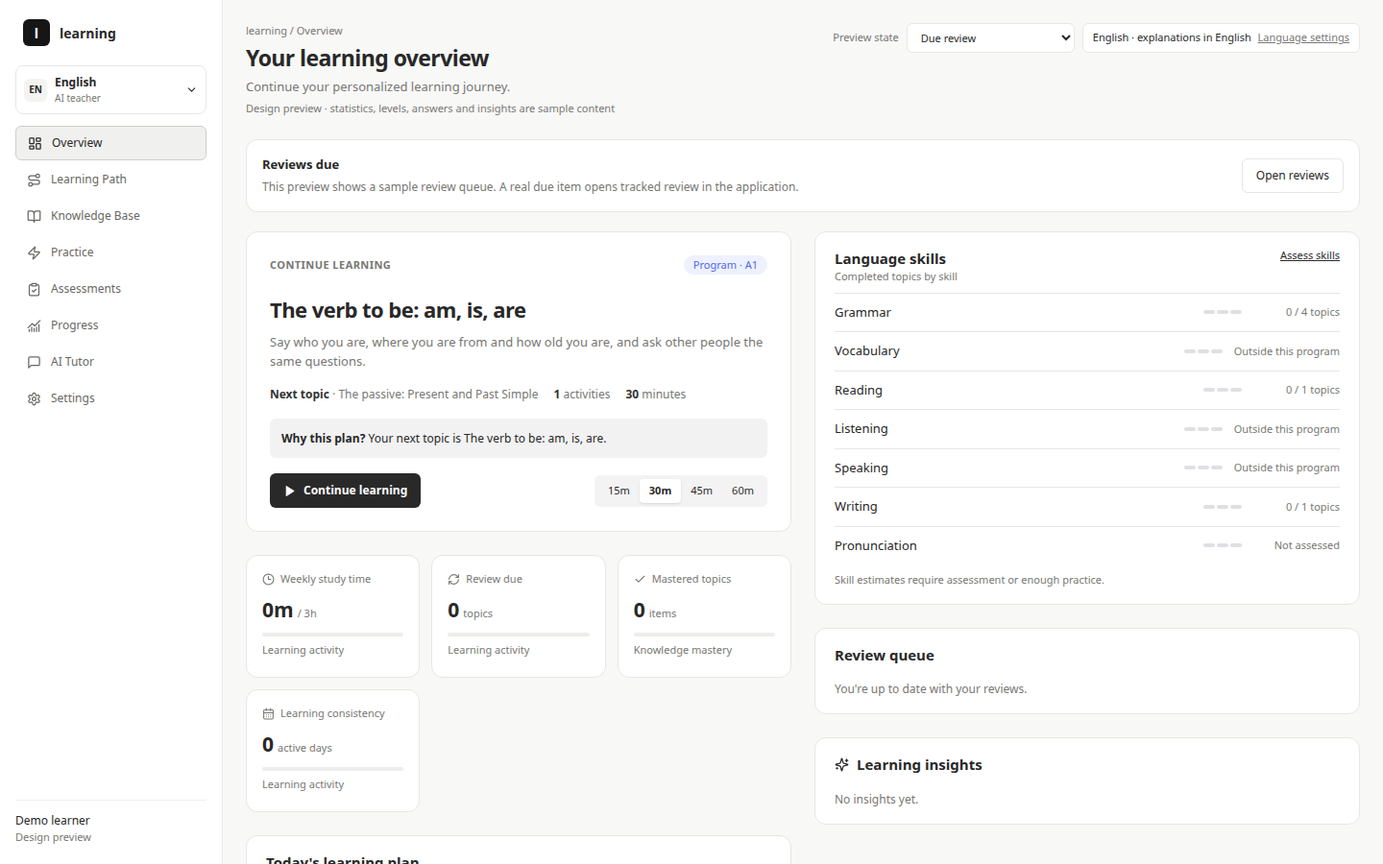
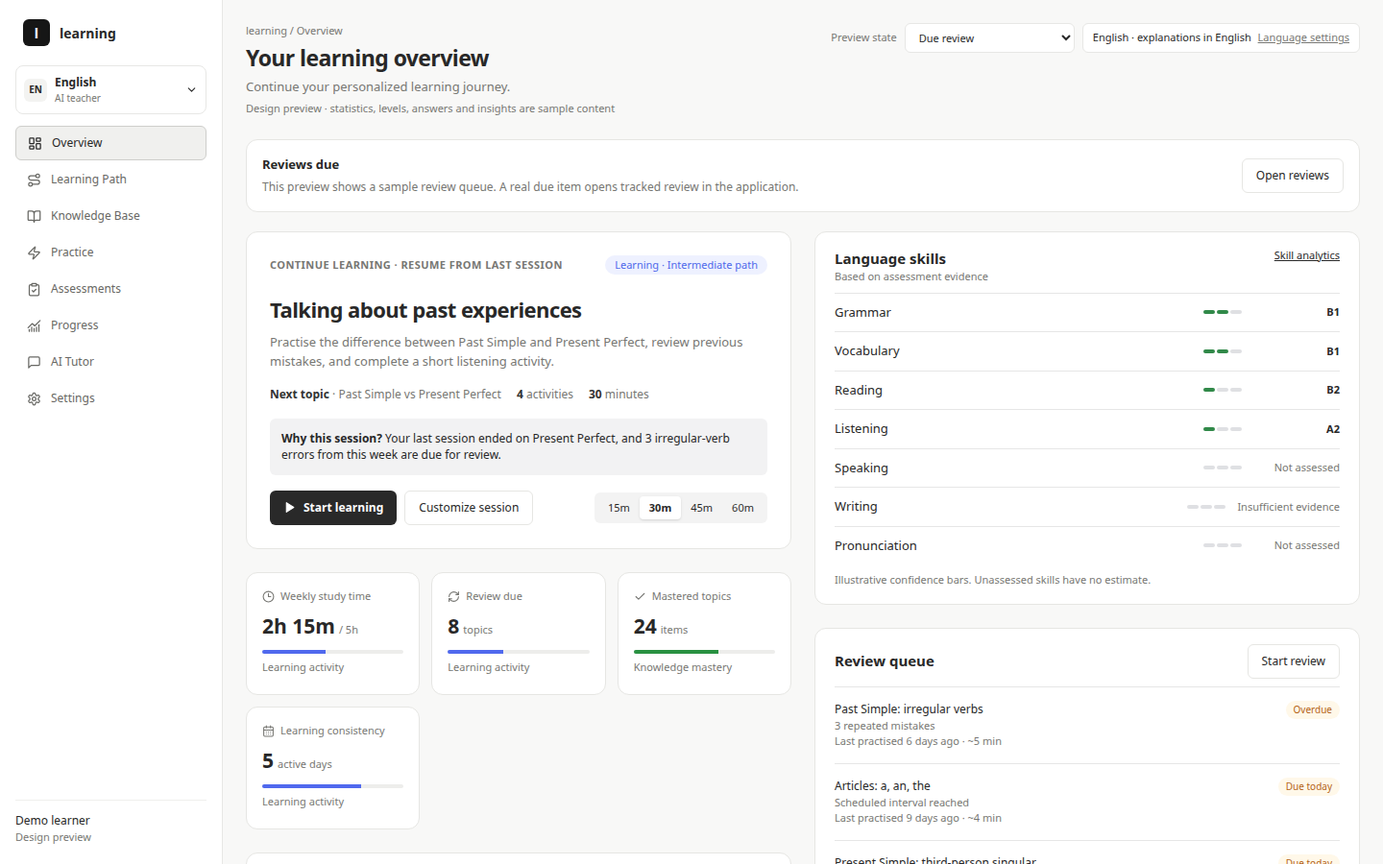
docs(learning): cover all Path preview states

diff --git a/docs/learning/frontend/MagicPath/WorkspacePages.tsx b/docs/learning/frontend/MagicPath/WorkspacePages.tsx
@@ -33,6 +33,23 @@ const modules = [{
   state: "Next",
   activities: ["Travel vocabulary", "Read a travel story", "Use words in context"]
 }];
+const starterModules = [{
+  title: "First conversations",
+  objective: "Introduce yourself and ask simple questions.",
+  completed: 0,
+  total: 3,
+  skills: "Grammar · Vocabulary",
+  state: "Next",
+  activities: ["The verb to be: am, is, are", "Introduce yourself", "Ask simple questions"]
+}, {
+  title: "Everyday reading",
+  objective: "Understand short introductions and everyday messages.",
+  completed: 0,
+  total: 2,
+  skills: "Reading · Grammar",
+  state: "Next",
+  activities: ["Read a short introduction", "Find key details"]
+}];
 function Tag({
   children,
   tone = "neutral"
@@ -61,10 +78,12 @@ function SectionHead({
 }
 export function LearningPathPage({
   preview,
+  language,
   go,
   startNewPlan
 }: {
   preview: Preview;
+  language: Language;
   go: (page: Page) => void;
   startNewPlan: () => void;
 }) {
@@ -76,22 +95,58 @@ export function LearningPathPage({
   const [weekly, setWeekly] = useState("5 hours");
   const [session, setSession] = useState("30 minutes");
   const fresh = preview === "new";
+  const unfinished = preview === "unfinished";
   const done = preview === "done";
-  if (fresh) return <div className="grid gap-6 lg:grid-cols-[minmax(0,1.4fr)_minmax(290px,.7fr)]"><section className={`${card} p-6`}><Tag>PROFILE READY</Tag><h2 className="mt-4 text-[22px] font-semibold">Set up your learning profile</h2><p className={`mt-2 text-[13px] ${muted}`}>Your goals and starting point shape the first learning path. You can begin from scratch or take a short assessment.</p><div className="mt-5 flex flex-wrap gap-2"><button className={button} onClick={() => go("Assessments")}>Choose a starting point</button><button className={secondary} onClick={() => go("Overview")}>Back to Overview</button></div></section><section className={`${card} p-5`}><h2 className="font-semibold">Profile</h2><p className={`mt-2 text-[12px] ${muted}`}>AI Teacher · settings saved</p><p className="mt-4 text-[13px]">No modules, estimates or progress are shown until a learning path exists.</p></section></div>;
+  const starter = language !== "English" || (preview !== "concept" && preview !== "due" && !done);
+  const starterTitle = language === "Spanish" ? "Ser and estar" : language === "German" ? "The verb sein" : "The verb to be: am, is, are";
+  const displayedModules = starter ? [{ ...starterModules[0], activities: [starterTitle, ...starterModules[0].activities.slice(1)] }, starterModules[1]] : modules;
+  const hasReviews = preview === "due" || (language === "English" && (preview === "concept" || done));
+  const reviewItems = language === "Spanish" ? ["Ser and estar · overdue · ~5 min", "Definite and indefinite articles · due today · ~4 min"] : language === "German" ? ["Verb sein · overdue · ~5 min", "Articles der, die, das · due today · ~4 min"] : ["Past Simple: irregular verbs · overdue · ~5 min", "Articles: a, an, the · due today · ~4 min"];
+  if (fresh || unfinished) return <div className="grid gap-6 lg:grid-cols-[minmax(0,1.4fr)_minmax(290px,.7fr)]"><section className={`${card} p-6`}><Tag tone={unfinished ? "amber" : "neutral"}>{unfinished ? "ASSESSMENT IN PROGRESS" : "NO CURRENT PROGRAM"}</Tag><h2 className="mt-4 text-[22px] font-semibold">{unfinished ? "Finish or resume your assessment" : "Choose where to begin"}</h2><p className={`mt-2 text-[13px] ${muted}`}>{unfinished ? "This sample has no program yet. Incomplete screening answers do not establish mastery; the learner can resume the attempt." : "Choose an available assessment, a claimed starting level, or A1 from scratch to create a learning path. Previous programs and results remain in history."}</p><div className="mt-5 flex flex-wrap gap-2"><button className={button} onClick={() => go("Assessments")}>{unfinished ? "Resume assessment" : "Choose a starting point"}</button><button className={secondary} onClick={() => go("Overview")}>Back to Overview</button></div></section><section className={`${card} p-5`}><h2 className="font-semibold">What appears here</h2><p className={`mt-2 text-[12px] ${muted}`}>Program topics, activities and history appear after a starting method is completed.</p><p className="mt-4 text-[13px]">No current modules or skill estimates are assumed. Previous learning history remains separate.</p></section></div>;
   return <div className="grid items-start gap-6 lg:grid-cols-[minmax(0,1.5fr)_minmax(300px,.8fr)]">
     <div className="space-y-6">
-      <section className={`${card} p-6`}><div className="flex flex-wrap items-center justify-between gap-2"><Tag tone="blue">{done ? "Plan completed" : "Active learning path"}</Tag><span className={`text-[11px] ${muted}`}>Sample plan · design preview</span></div><h2 className="mt-4 text-[22px] font-semibold">{done ? "All planned activities completed" : "Talking about past experiences"}</h2><p className={`mt-2 text-[13px] ${muted}`}>{done ? "All modules in this path are complete. Completion does not certify a CEFR level; keep reviewing what you learned." : "Practise the difference between Past Simple and Present Perfect and tell a short story about a past experience."}</p><div className="mt-5 grid grid-cols-2 gap-3 sm:grid-cols-4">{[["Current focus", done ? "Review" : "Present Perfect"], ["Weekly target", weekly], ["Preferred session", session], ["Remaining", done ? "0 activities" : "6 activities"]].map(([label, value]) => <div key={label} className="rounded-lg bg-[#f5f5f4] p-3"><p className={`text-[11px] ${muted}`}>{label}</p><b className="mt-1 block text-[12px]">{value}</b></div>)}</div><div className="mt-5 flex flex-wrap gap-2"><button className={button} onClick={() => go("Practice")}>{done ? "Continue reviews" : "Continue learning"}</button><button className={secondary} onClick={() => setPanel("goals")}>Edit learning goals</button><button className={secondary} onClick={() => setPanel("history")}>View plan history</button><button className={secondary} onClick={startNewPlan}>Start a new plan</button></div><p className={`mt-3 text-[11px] ${muted}`}>Your previous plan, assessment results and learning history remain available. Deleting history is a separate action.</p></section>
+      <section className={`${card} p-6`}>
+        <div className="flex flex-wrap items-center justify-between gap-2">
+          <Tag tone={preview === "due" ? "amber" : "blue"}>{done ? "Plan completed" : preview === "unavailable" ? "Last known plan" : preview === "due" ? "Review due" : preview === "current" ? "Current app snapshot" : "Active learning path"}</Tag>
+          <span className={`text-[11px] ${muted}`}>Sample plan · design preview</span>
+        </div>
+        <h2 className="mt-4 text-[22px] font-semibold">{done ? "All planned activities completed" : starter ? starterTitle : "Talking about past experiences"}</h2>
+        <p className={`mt-2 text-[13px] ${muted}`}>
+          {done ? "All modules in this path are complete. Completion does not certify a CEFR level; keep reviewing what you learned." : starter ? `A sample ${language} starting program. Topics and activities are illustrative; no skill level is inferred from this plan.` : "Practise the difference between Past Simple and Present Perfect and tell a short story about a past experience."}
+        </p>
+        {preview === "insufficient" && <p className={`mt-3 rounded-md bg-[#f5f5f4] p-3 text-[12px] ${muted}`}>Your program can continue. Skill estimates and trends remain unknown until enough learning evidence exists.</p>}
+        {preview === "missing-ai" && <p className={`mt-3 rounded-md bg-[#fff8e9] p-3 text-[12px] ${muted}`}>Existing plan history remains visible. AI-dependent activities need a configured provider.</p>}
+        {preview === "unavailable" && <p className={`mt-3 rounded-md bg-[#fff8e9] p-3 text-[12px] ${muted}`}>This is a last-known sample view. Live activities cannot be confirmed while the learning service is unavailable.</p>}
+        <div className="mt-5 grid grid-cols-2 gap-3 sm:grid-cols-4">
+          {[["Current focus", done ? "Review" : starter ? starterTitle : "Present Perfect"], ["Weekly target", weekly], ["Preferred session", session], ["Remaining", done ? "0 activities" : starter ? "5 activities" : "6 activities"]].map(([label, value]) => <div key={label} className="rounded-lg bg-[#f5f5f4] p-3"><p className={`text-[11px] ${muted}`}>{label}</p><b className="mt-1 block text-[12px]">{value}</b></div>)}
+        </div>
+        <div className="mt-5 flex flex-wrap gap-2">
+          {preview !== "unavailable" && <button className={button} onClick={() => go("Practice")}>{done ? "Continue reviews" : preview === "due" ? "Start review" : "Continue learning"}</button>}
+          {preview !== "unavailable" && <button className={secondary} onClick={() => setPanel("goals")}>Edit learning goals</button>}
+          <button className={secondary} onClick={() => setPanel("history")}>View plan history</button>
+          {preview !== "unavailable" && <button className={secondary} onClick={startNewPlan}>Start a new plan</button>}
+        </div>
+        <p className={`mt-3 text-[11px] ${muted}`}>Your previous plan, assessment results and learning history remain available. Deleting history is a separate action.</p>
+      </section>
       {done && <section className={`${card} p-5`}><h2 className="font-semibold">Suggested next objectives</h2><p className={`mt-1 text-[12px] ${muted}`}>Illustrative options for extending a completed path.</p><div className="mt-4 flex flex-wrap gap-2">{["Tell longer stories", "Improve listening", "Use language at work"].map(item => <button key={item} className={secondary} onClick={() => {
             setSelected(item);
             setPanel("activity");
           }}>{item} · Add to path</button>)}</div></section>}
-      <section className={card}><SectionHead title="Your modules" note="Activities can be filtered without changing your learning history." action={<label className="text-[12px]">Skill <select aria-label="Filter modules by skill" value={filter} onChange={e => setFilter(e.target.value)} className="ml-2 rounded-md border border-[#e6e6e3] px-2 py-1.5">{["All skills", ...skills].map(s => <option key={s}>{s}</option>)}</select></label>} /><div className="space-y-2 p-3">{modules.filter(m => filter === "All skills" || m.skills.includes(filter)).map((m, i) => <div key={m.title} className="rounded-lg border border-[#e8e8e8]"><button className="flex w-full items-center gap-3 p-4 text-left" onClick={() => setExpanded(expanded === i ? -1 : i)} aria-expanded={expanded === i}><span className="flex size-8 items-center justify-center rounded-md bg-[#f2f2f2] text-[12px]">{i + 1}</span><span className="min-w-0 flex-1"><b className="text-[14px]">{m.title}</b><span className={`block text-[11px] ${muted}`}>{m.objective}</span></span><Tag tone={m.state === "Completed" || done ? "green" : m.state === "In progress" ? "blue" : "neutral"}>{done ? "Completed" : m.state}</Tag><ChevronDown size={16} /></button>{expanded === i && <div className="border-t border-[#eee] px-4 py-3"><p className={`mb-3 text-[11px] ${muted}`}>{done ? m.total : m.completed} of {m.total} activities completed · {m.skills}</p>{m.activities.map((a, j) => <div key={a} className="flex flex-wrap items-center justify-between gap-2 border-t border-[#eee] py-3"><div><b className="text-[12px]">{a}</b><p className={`text-[11px] ${muted}`}>{j === 0 ? "Review" : "Learn or practise"} · 5–10 min · Knowledge linked</p></div><button className={secondary} onClick={() => {
+      <section className={card}><SectionHead title="Your modules" note="Activities can be filtered without changing your learning history." action={<label className="text-[12px]">Skill <select aria-label="Filter modules by skill" value={filter} onChange={e => setFilter(e.target.value)} className="ml-2 rounded-md border border-[#e6e6e3] px-2 py-1.5">{["All skills", ...skills].map(s => <option key={s}>{s}</option>)}</select></label>} /><div className="space-y-2 p-3">{displayedModules.filter(m => filter === "All skills" || m.skills.includes(filter)).map((m, i) => <div key={m.title} className="rounded-lg border border-[#e8e8e8]"><button className="flex w-full items-center gap-3 p-4 text-left" onClick={() => setExpanded(expanded === i ? -1 : i)} aria-expanded={expanded === i}><span className="flex size-8 items-center justify-center rounded-md bg-[#f2f2f2] text-[12px]">{i + 1}</span><span className="min-w-0 flex-1"><b className="text-[14px]">{m.title}</b><span className={`block text-[11px] ${muted}`}>{m.objective}</span></span><Tag tone={m.state === "Completed" || done ? "green" : m.state === "In progress" ? "blue" : "neutral"}>{done ? "Completed" : m.state}</Tag><ChevronDown size={16} /></button>{expanded === i && <div className="border-t border-[#eee] px-4 py-3"><p className={`mb-3 text-[11px] ${muted}`}>{done ? m.total : m.completed} of {m.total} activities completed · {m.skills}</p>{m.activities.map((a, j) => <div key={a} className="flex flex-wrap items-center justify-between gap-2 border-t border-[#eee] py-3"><div><b className="text-[12px]">{a}</b><p className={`text-[11px] ${muted}`}>{starter ? "Learn or practise" : j === 0 ? "Review" : "Learn or practise"} · 5–10 min · Knowledge linked</p></div><button className={secondary} disabled={preview === "unavailable"} onClick={() => {
                   setSelected(a);
                   setPanel("activity");
                 }}>Details</button></div>)}</div>}</div>)}</div></section>
     </div>
-    <div className="space-y-6"><section className={`${card} p-5`}><h2 className="font-semibold">Learning goals</h2><p className={`mt-2 text-[12px] ${muted}`}>{goal}</p><button className="mt-3 text-[12px] underline" onClick={() => setPanel("goals")}>Edit goals</button></section><section className={`${card} p-5`}><div className="flex items-center justify-between"><h2 className="font-semibold">Review queue</h2><button className={secondary} onClick={() => go("Practice")}>Start review</button></div><p className={`mt-3 text-[12px] ${muted}`}>Past Simple: irregular verbs · overdue · ~5 min</p><p className={`mt-2 text-[12px] ${muted}`}>Articles: a, an, the · due today · ~4 min</p></section><section className={`${card} p-5`}><h2 className="font-semibold">Skill coverage</h2><p className={`text-[11px] ${muted}`}>Activities in this path, not proficiency.</p>{[["Grammar", 5], ["Vocabulary", 2], ["Reading", 1], ["Listening", 1], ["Speaking", 1]].map(([s, n]) => <div key={s} className="flex justify-between border-b border-[#eee] py-2 text-[12px]"><span>{s}</span><span>{n} activities</span></div>)}</section><section className={`${card} p-5`}><h2 className="font-semibold">Recent plan changes</h2><p className={`mt-3 text-[12px] ${muted}`}>Review of irregular verbs added after repeated mistakes.</p><button className="mt-2 text-[12px] underline" onClick={() => setPanel("history")}>See history</button></section></div>
-    {panel && <div className="fixed inset-0 z-50 flex items-center justify-center bg-black/30 p-4" role="presentation" onMouseDown={() => setPanel(null)}><section role="dialog" aria-modal="true" aria-label={panel === "goals" ? "Edit learning goals" : panel === "history" ? "Plan history" : "Activity details"} className={`${card} w-full max-w-[560px] p-6 shadow-xl`} onMouseDown={e => e.stopPropagation()}><div className="flex items-start justify-between gap-3"><h2 className="text-[20px] font-semibold">{panel === "goals" ? "Edit learning goals" : panel === "history" ? "Plan history" : selected}</h2><button aria-label="Close" onClick={() => setPanel(null)}><X size={18} /></button></div>{panel === "goals" ? <div className="mt-5 space-y-4 text-[13px]"><label className="block">Learning purpose<select className="mt-1 block w-full rounded-md border p-2" value={goal} onChange={e => setGoal(e.target.value)}>{["Everyday and professional communication", "Travel", "Study", "Work"].map(x => <option key={x}>{x}</option>)}</select></label><label className="block">Weekly available time<select className="mt-1 block w-full rounded-md border p-2" value={weekly} onChange={e => setWeekly(e.target.value)}>{["3 hours", "5 hours", "8 hours"].map(x => <option key={x}>{x}</option>)}</select></label><label className="block">Preferred session duration<select className="mt-1 block w-full rounded-md border p-2" value={session} onChange={e => setSession(e.target.value)}>{["15 minutes", "30 minutes", "45 minutes", "60 minutes"].map(x => <option key={x}>{x}</option>)}</select></label><p className={muted}>Future activities may change; completed work stays in history.</p></div> : panel === "history" ? <div className="mt-5 space-y-3 text-[12px]"><p><b>Today · Review added</b><br />Repeated irregular-verb mistakes made this item due.</p><p><b>Yesterday · Session resumed</b><br />Present Perfect remains the next learning topic.</p><p className={muted}>Completed activities are kept when the plan changes.</p></div> : <div className="mt-5 space-y-3 text-[13px]"><p>Objective: practise {selected.toLowerCase()} in context.</p><p className={muted}>Why recommended: linked to your current learning objective and review needs.</p><p>Knowledge: <button className="underline" onClick={() => {
+    <div className="space-y-6">
+      <section className={`${card} p-5`}><h2 className="font-semibold">Learning goals</h2><p className={`mt-2 text-[12px] ${muted}`}>{goal}</p><button className="mt-3 text-[12px] underline" onClick={() => setPanel("goals")}>Edit goals</button></section>
+      <section className={`${card} p-5`}>
+        <div className="flex items-center justify-between gap-2"><h2 className="font-semibold">Review queue</h2><button className={secondary} onClick={() => go("Practice")} disabled={!hasReviews || preview === "unavailable"}>Start review</button></div>
+        {hasReviews ? reviewItems.map((item, index) => <p key={item} className={`${index === 0 ? "mt-3" : "mt-2"} text-[12px] ${muted}`}>{item}</p>) : <p className={`mt-3 text-[12px] ${muted}`}>No review is due in this sample state.</p>}
+      </section>
+      <section className={`${card} p-5`}><h2 className="font-semibold">Skill coverage</h2><p className={`text-[11px] ${muted}`}>Activities in this path, not proficiency.</p>{(starter ? [["Grammar", 2], ["Vocabulary", 1], ["Reading", 1]] : [["Grammar", 5], ["Vocabulary", 2], ["Reading", 1], ["Listening", 1], ["Speaking", 1]]).map(([s, n]) => <div key={s} className="flex justify-between border-b border-[#eee] py-2 text-[12px]"><span>{s}</span><span>{n} activities</span></div>)}{preview === "insufficient" && <p className={`mt-3 text-[11px] ${muted}`}>Insufficient evidence for skill estimates.</p>}</section>
+      <section className={`${card} p-5`}><h2 className="font-semibold">Recent plan changes</h2><p className={`mt-3 text-[12px] ${muted}`}>{starter ? "No recorded changes in this sample program." : "Review of irregular verbs added after repeated mistakes."}</p><button className="mt-2 text-[12px] underline" onClick={() => setPanel("history")}>See history</button></section>
+    </div>
+    {panel && <div className="fixed inset-0 z-50 flex items-center justify-center bg-black/30 p-4" role="presentation" onMouseDown={() => setPanel(null)}><section role="dialog" aria-modal="true" aria-label={panel === "goals" ? "Edit learning goals" : panel === "history" ? "Plan history" : "Activity details"} className={`${card} w-full max-w-[560px] p-6 shadow-xl`} onMouseDown={e => e.stopPropagation()}><div className="flex items-start justify-between gap-3"><h2 className="text-[20px] font-semibold">{panel === "goals" ? "Edit learning goals" : panel === "history" ? "Plan history" : selected}</h2><button aria-label="Close" onClick={() => setPanel(null)}><X size={18} /></button></div>{panel === "goals" ? <div className="mt-5 space-y-4 text-[13px]"><label className="block">Learning purpose<select className="mt-1 block w-full rounded-md border p-2" value={goal} onChange={e => setGoal(e.target.value)}>{["Everyday and professional communication", "Travel", "Study", "Work"].map(x => <option key={x}>{x}</option>)}</select></label><label className="block">Weekly available time<select className="mt-1 block w-full rounded-md border p-2" value={weekly} onChange={e => setWeekly(e.target.value)}>{["3 hours", "5 hours", "8 hours"].map(x => <option key={x}>{x}</option>)}</select></label><label className="block">Preferred session duration<select className="mt-1 block w-full rounded-md border p-2" value={session} onChange={e => setSession(e.target.value)}>{["15 minutes", "30 minutes", "45 minutes", "60 minutes"].map(x => <option key={x}>{x}</option>)}</select></label><p className={muted}>Future activities may change; completed work stays in history.</p></div> : panel === "history" ? <div className="mt-5 space-y-3 text-[12px]">{starter ? <p>No recorded changes in this sample program.</p> : <><p><b>Today · Review added</b><br />Repeated irregular-verb mistakes made this item due.</p><p><b>Yesterday · Session resumed</b><br />Present Perfect remains the next learning topic.</p></>}<p className={muted}>Completed activities are kept when the plan changes.</p></div> : <div className="mt-5 space-y-3 text-[13px]"><p>Objective: practise {selected.toLowerCase()} in context.</p><p className={muted}>Why recommended: linked to your current learning objective and review needs.</p><p>Knowledge: <button className="underline" onClick={() => {
               setPanel(null);
               go("Knowledge Base");
             }}>Open related rule</button></p></div>}<div className="mt-6 flex justify-end gap-2"><button className={secondary} onClick={() => setPanel(null)}>Close</button>{panel === "goals" && <button className={button} onClick={() => setPanel(null)}>Save changes</button>}{panel === "activity" && <button className={button} onClick={() => {

diff --git a/docs/learning/frontend/MagicPath/LearningOverviewAssessmentCenter.tsx b/docs/learning/frontend/MagicPath/LearningOverviewAssessmentCenter.tsx
@@ -278,7 +278,7 @@ export const LearningOverviewAssessmentCenter = () => {
     setPage(next);
     setMenu(false);
   };
-  const concept = preview === "concept" && language === "English";
+  const concept = (preview === "concept" || preview === "due") && language === "English";
   const begin = (mode: Mode) => {
     setStartMode(mode);
     setAssessmentLaunch(value => value + 1);
@@ -289,7 +289,7 @@ export const LearningOverviewAssessmentCenter = () => {
     begin("quick");
   };
   const stateNotice: Partial<Record<Preview, { title: string; detail: string; action: string; destination: Page }>> = {
-    unfinished: { title: "Assessment in progress", detail: "Sample grammar screening progress is saved in this browser. Continue when you are ready.", action: "Resume assessment", destination: "Assessments" },
+    unfinished: { title: "Assessment in progress", detail: "Sample state for a paused Quick grammar screening. Saved answers can be resumed in the application.", action: "Resume assessment", destination: "Assessments" },
     due: { title: "Reviews due", detail: "This preview shows a sample review queue. A real due item opens tracked review in the application.", action: "Open reviews", destination: "Practice" },
     insufficient: { title: "Not enough progress data yet", detail: "Skill levels and trends remain unknown until the application has enough evidence.", action: "See progress", destination: "Progress" },
     "missing-ai": { title: "AI key required", detail: "AI assessment and tutoring need a configured provider. Your existing learning history remains available.", action: "Open settings", destination: "Settings" },
@@ -315,13 +315,13 @@ export const LearningOverviewAssessmentCenter = () => {
       {menu && <button className="fixed inset-0 z-20 bg-black/20 md:hidden" aria-label="Close navigation" onClick={() => setMenu(false)} />}
       <main className="min-w-0 flex-1"><div className="mx-auto max-w-[1490px] px-4 pb-16 pt-5 sm:px-6 md:pt-6">
         <div className="mb-4 flex items-center gap-2 md:hidden"><button className={outline + " px-2"} aria-label="Open menu" onClick={() => setMenu(true)}><Menu size={17} /></button><b className="text-[13px]">learning</b></div>
-        {page !== "Knowledge Base" && <header className="mb-6 flex flex-wrap items-start justify-between gap-4"><div><p className={"text-[11px] " + muted}>learning / {page}</p><h1 className="mt-0.5 text-[23px] font-semibold tracking-tight">{page === "Overview" ? "Your learning overview" : page}</h1><p className={"mt-1 text-[13px] " + muted}>{page === "Overview" ? "Continue your personalized learning journey." : page === "Assessments" ? "Choose a starting point or assess your knowledge." : "Learning workspace"}</p><p className={"mt-1 text-[11px] " + muted}>Design preview · statistics, levels, answers and insights are sample content</p></div>{language && (page === "Overview" || page === "Learning Path") && <div className="flex flex-wrap items-center gap-2"><label className={"text-[11px] " + muted} htmlFor="preview-state">Preview state</label><select id="preview-state" className="rounded-md border border-[#e7e7e5] bg-white px-2.5 py-1.5 text-[11px]" value={page === "Learning Path" && preview !== "new" && preview !== "done" ? "concept" : preview} onChange={event => setPreview(event.target.value as Preview)}>{page === "Learning Path" ? <><option value="new">No program</option><option value="concept">Active learning path</option><option value="done">Plan completed</option></> : <><option value="concept">Active learning path</option><option value="new">New learner</option><option value="done">Plan completed</option><option value="current">Current app snapshot</option><option value="unfinished">Unfinished assessment</option><option value="due">Due review</option><option value="insufficient">Insufficient progress data</option><option value="missing-ai">Missing AI key</option><option value="unavailable">Unavailable service</option></>}</select><div className="rounded-md border border-[#e7e7e5] bg-white px-2.5 py-1.5 text-[11px]">{language} · explanations in English <button className={"ml-1 underline " + muted} onClick={() => go("Settings")}>Language settings</button></div></div>}</header>}
+        {page !== "Knowledge Base" && <header className="mb-6 flex flex-wrap items-start justify-between gap-4"><div><p className={"text-[11px] " + muted}>learning / {page}</p><h1 className="mt-0.5 text-[23px] font-semibold tracking-tight">{page === "Overview" ? "Your learning overview" : page}</h1><p className={"mt-1 text-[13px] " + muted}>{page === "Overview" ? "Continue your personalized learning journey." : page === "Assessments" ? "Choose a starting point or assess your knowledge." : "Learning workspace"}</p><p className={"mt-1 text-[11px] " + muted}>Design preview · statistics, levels, answers and insights are sample content</p></div>{language && (page === "Overview" || page === "Learning Path") && <div className="flex flex-wrap items-center gap-2"><label className={"text-[11px] " + muted} htmlFor="preview-state">Preview state</label><select id="preview-state" className="rounded-md border border-[#e7e7e5] bg-white px-2.5 py-1.5 text-[11px]" value={preview} onChange={event => setPreview(event.target.value as Preview)}><option value="concept">Active learning path</option><option value="new">New learner / no program</option><option value="done">Plan completed</option><option value="current">Current app snapshot</option><option value="unfinished">Unfinished assessment</option><option value="due">Due review</option><option value="insufficient">Insufficient progress data</option><option value="missing-ai">Missing AI key</option><option value="unavailable">Unavailable service</option></select><div className="rounded-md border border-[#e7e7e5] bg-white px-2.5 py-1.5 text-[11px]">{language} · explanations in English <button className={"ml-1 underline " + muted} onClick={() => go("Settings")}>Language settings</button></div></div>}</header>}
         {language && notice && <section role="status" className="mb-5 flex flex-wrap items-center justify-between gap-3 rounded-xl border border-[#e6e6e3] bg-white p-4"><div><h2 className="text-[13px] font-semibold">{notice.title}</h2><p className={"mt-1 text-[12px] " + muted}>{notice.detail}</p></div><button className={outline} onClick={() => go(notice.destination)}>{notice.action}</button></section>}
         {!language ? <OnboardingPrototype complete={(chosen, mode) => {
             setLanguage(chosen);
             setPreview("new");
             begin(mode);
-          }} /> : page === "Overview" ? preview === "new" ? <NewLearnerOverview language={language} go={go} begin={begin} /> : <Overview language={language} go={go} concept={concept || preview === "done"} done={preview === "done"} /> : page === "Assessments" ? <AssessmentPrototype key={language + "-" + assessmentLaunch} language={language} initialMode={startMode} go={go} onPathCreated={() => setPreview("concept")} /> : page === "Learning Path" ? <LearningPathPage preview={preview} go={go} startNewPlan={startNewPlan} /> : page === "Knowledge Base" ? <KnowledgeBasePage preview={preview} language={language} go={go} /> : page === "Practice" ? <PracticePage go={go} /> : page === "Progress" ? <ProgressPage preview={preview} go={go} /> : page === "AI Tutor" ? <TutorPage go={go} /> : <SettingsPage language={language} setLanguage={setLanguage} go={go} onReset={() => { ["English", "Spanish", "German"].forEach(name => localStorage.removeItem(`magicpath.learning.assessment.${name}`)); setLanguage(""); setPreview("new"); go("Overview"); }} />}
+          }} /> : page === "Overview" ? (preview === "new" || preview === "unfinished") ? <NewLearnerOverview language={language} go={go} begin={begin} /> : <Overview language={language} go={go} concept={concept || preview === "done"} done={preview === "done"} /> : page === "Assessments" ? <AssessmentPrototype key={language + "-" + assessmentLaunch} language={language} initialMode={startMode} go={go} onPathCreated={() => setPreview("concept")} /> : page === "Learning Path" ? <LearningPathPage preview={preview} language={language} go={go} startNewPlan={startNewPlan} /> : page === "Knowledge Base" ? <KnowledgeBasePage preview={preview} language={language} go={go} /> : page === "Practice" ? <PracticePage go={go} /> : page === "Progress" ? <ProgressPage preview={preview} go={go} /> : page === "AI Tutor" ? <TutorPage go={go} /> : <SettingsPage language={language} setLanguage={setLanguage} go={go} onReset={() => { ["English", "Spanish", "German"].forEach(name => localStorage.removeItem(`magicpath.learning.assessment.${name}`)); setLanguage(""); setPreview("new"); go("Overview"); }} />}
       </div></main>
     </div>
   </div>;

diff --git a/docs/learning/frontend/screenshots/README.md b/docs/learning/frontend/screenshots/README.md
@@ -15,9 +15,16 @@ Desktop captures use **1440 × 900 CSS pixels**, device scale 1. Telegram-width 
 | Overview: missing AI key | [07](07-overview-missing-ai-key-desktop.png) | — |
 | Overview: unavailable service | [08](08-overview-unavailable-service-desktop.png) | — |
 | No language / onboarding | [09](09-onboarding-no-language-desktop.png) | — |
+| Learning Path selected without a language (global onboarding gate) | [31](31-learning-path-no-language-desktop.png) | [32](32-learning-path-no-language-telegram.png) |
 | Learning Path: active program, including Start a new plan | [10](10-learning-path-desktop.png) | — |
 | Learning Path: no program | [21](21-learning-path-no-program-desktop.png) | [23](23-learning-path-no-program-telegram.png) |
 | Learning Path: completed program | [22](22-learning-path-completed-desktop.png) | — |
+| Learning Path: current app snapshot | [24](24-learning-path-current-desktop.png) | — |
+| Learning Path: unfinished assessment | [25](25-learning-path-unfinished-assessment-desktop.png) | [30](30-learning-path-unfinished-assessment-telegram.png) |
+| Learning Path: due review | [26](26-learning-path-due-review-desktop.png) | — |
+| Learning Path: insufficient progress data | [27](27-learning-path-insufficient-data-desktop.png) | — |
+| Learning Path: missing AI key | [28](28-learning-path-missing-ai-key-desktop.png) | — |
+| Learning Path: unavailable service | [29](29-learning-path-unavailable-service-desktop.png) | — |
 | Knowledge Base taxonomy | [11](11-knowledge-base-desktop.png) | [20](20-knowledge-base-telegram.png) |
 | Practice | [12](12-practice-desktop.png) | — |
 | Assessments: Quick grammar available; Full/Skill unavailable | [13](13-assessments-desktop.png) | [19](19-assessments-telegram.png) |
@@ -26,4 +33,4 @@ Desktop captures use **1440 × 900 CSS pixels**, device scale 1. Telegram-width 
 | Settings | [16](16-settings-desktop.png) | — |
 | Eight-section mobile navigation | — | [18](18-navigation-telegram.png) |
 
-The capture script creates a fresh browser context for every image, selects the named sample state, waits for the UI transition, and records the local preview. The Learning Path page has its own `Preview state` selector for no program, active program, and completed program. Regenerate after editing the source, then inspect desktop and mobile screenshots before committing them. In particular, inspect the Knowledge Base category tree and the Assessment availability labels, because those were stale in the former hosted preview.
+The capture script creates a fresh browser context for every image, selects the named sample state, waits for the UI transition, and records the local preview. Overview and Learning Path share the full `Preview state` list. Selecting a state on either page carries it to the other; the Path page renders its corresponding program, empty, assessment, review, insufficient-data, missing-key, or service-failure state. No language is selected through the language switcher and captured as onboarding. Regenerate after editing the source, then inspect desktop and mobile screenshots before committing them. In particular, inspect the Knowledge Base category tree and the Assessment availability labels, because those were stale in the former hosted preview.

diff --git a/docs/learning/frontend/MagicPath/README.md b/docs/learning/frontend/MagicPath/README.md
@@ -5,7 +5,7 @@ These four TSX files originated as the MagicPath **learning — Product Design**
 - [LearningOverviewAssessmentCenter.tsx](LearningOverviewAssessmentCenter.tsx): shell, eight-section navigation, language selector, Overview states.
 - [WorkspacePages.tsx](WorkspacePages.tsx): Learning Path, Knowledge Base, Practice, Progress, AI Tutor, Settings.
 
-Overview exposes all design preview conditions. Learning Path exposes the three program conditions through its own `Preview state` control: no program, active program, and completed program. Both controls use the same local preview state, so navigation preserves the selected condition.
+Overview and Learning Path expose the same nine design preview conditions through `Preview state`. The Path page renders no current program, unfinished assessment, active/completed program, current app snapshot, due review, insufficient data, missing AI key, and unavailable service. Both controls use the same local preview state, so navigation preserves the selected condition. No language is selected with the separate language switcher.
 - [OnboardingPrototype.tsx](OnboardingPrototype.tsx): language setup and starting methods.
 - [AssessmentPrototype.tsx](AssessmentPrototype.tsx): sample Quick grammar journey and disabled Full/Skill choices.
 

diff --git a/docs/learning/frontend/NAVIGATION_HANDOFF.md b/docs/learning/frontend/NAVIGATION_HANDOFF.md
@@ -19,6 +19,8 @@ The [local design handoff](README.md) is authoritative for visual intent. This m
 
 The prototype's language selector drives the visible language shell and several page labels, but some sample content on Practice, Progress and AI Tutor remains English regardless of selection. Treat that as a prototype data limitation; the application must continue to use its language-keyed data rather than copying the samples.
 
+The local prototype now exposes the same nine `Preview state` choices on Overview and Learning Path. Path has distinct no-program, unfinished-assessment, active/current, completed, due-review, insufficient-data, missing-key and service-failure presentations. No language is a global onboarding gate selected through the language switcher. These states and their numbers are design examples, not evidence that the application persists every illustrated field.
+
 ## Starting, returning, and restarting
 
 - **No language:** onboarding creates a language profile with explanation language, goals, priorities and routine, then offers Quick grammar if supported, a claimed starting level, or A1 from scratch. Goals/routine in the current UI are stored in browser localStorage; this is not yet a server-owned learner profile.
